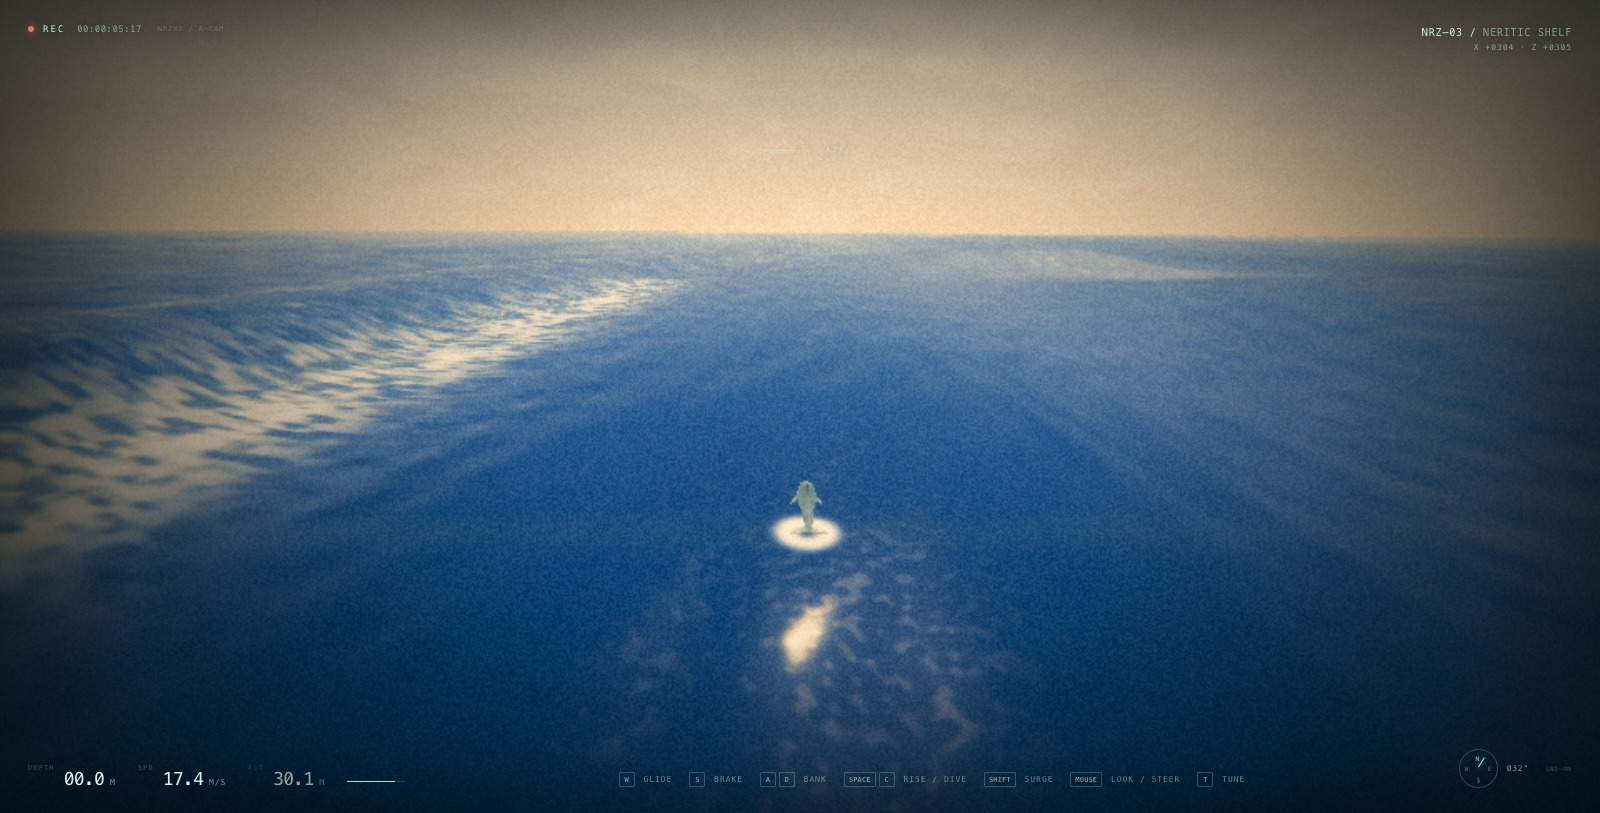
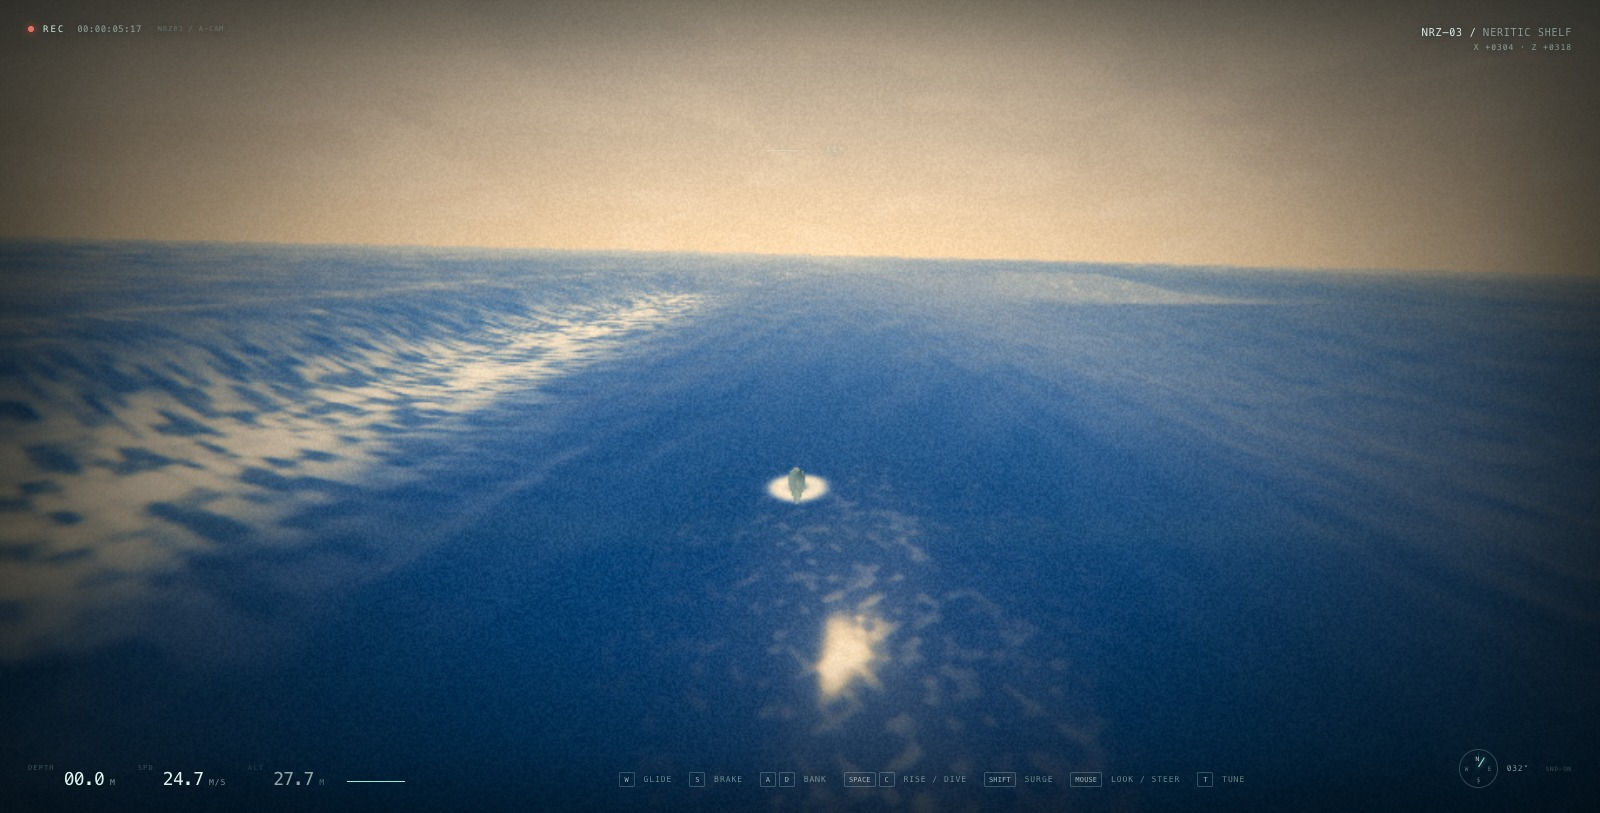
Add loose surf lock and face-foam detailing

diff --git a/src/dolphin.js b/src/dolphin.js
@@ -278,6 +278,11 @@ export class Dolphin {
     this.verticalInput = 0;
     this.pitchInputTimer = 0;
     this.speed = 0;
+    this.surfing = false;
+    this.surfTime = 0;
+    this.surfNormal = new THREE.Vector3();
+    this.surfForward = new THREE.Vector3();
+    this.surfAhead = {};
     this.prevCenterAbove = false;
     this.airborne = false;
     this.wasAbove = false;
@@ -309,6 +314,7 @@ export class Dolphin {
       speed: 0,
       heading: 0,
       waveHeight: 0,
+      surfing: false,
       hydro: null,
     };
   }
@@ -729,6 +735,51 @@ export class Dolphin {
     this.hydro = hydro;
     this.hullMs = hullMs;
 
+    // --- Loose surf lock -------------------------------------------------
+    // Near a breaking crest, at speed, keep the animal planing on the face
+    // instead of letting the hull sink straight through. This is a soft
+    // spring plus a small face-tangent drive, not a scripted animation.
+    const aheadX = this.position.x + this.forward.x * 4;
+    const aheadZ = this.position.z + this.forward.z * 4;
+    const ahead = ocean.water.sampleSurface(aheadX, aheadZ, this.surfAhead);
+    const aheadSlope = Math.hypot(ahead.slopeX, ahead.slopeZ);
+    const faceAhead = aheadSlope > 0.14 || ahead.breakMask > 0.15;
+    const crestNear = water.height > 1.5 || ahead.height > 1.5;
+    const speedEnough = this.surfing ? this.speed > 4.0 : this.speed > 5.5;
+    const surfable =
+      (water.breakMask > 0.15 || faceAhead || crestNear) &&
+      water.depth > 6 &&
+      this.verticalInput === 0 &&
+      speedEnough &&
+      this.position.y > surfaceHeight - 2.2 &&
+      this.position.y < surfaceHeight + 2.5;
+    if (surfable) {
+      if (!this.surfing) this.surfTime = 0;
+      this.surfing = true;
+      this.surfTime += dt;
+      const targetY = surfaceHeight - 0.2;
+      const err = targetY - this.position.y;
+      this.velocity.y += clamp(err * 12 - this.velocity.y * 4.5, -12, 12) * dt;
+      if (this.position.y < surfaceHeight - 0.5) {
+        this.position.y = surfaceHeight - 0.5;
+        if (this.velocity.y < 0) this.velocity.y *= 0.2;
+      }
+      // Face tangent drive: keep enough speed to carve, directed by the
+      // player's current heading projected onto the local surface.
+      this.surfNormal.set(-water.slopeX, 1, -water.slopeZ).normalize();
+      const fdn = this.forward.dot(this.surfNormal);
+      this.surfForward.copy(this.forward).addScaledVector(this.surfNormal, -fdn);
+      const flen = this.surfForward.length();
+      if (flen > 1e-3) {
+        this.surfForward.multiplyScalar(1 / flen);
+        const targetSpeed = water.phaseSpeed * 0.72;
+        const drive = clamp(targetSpeed - this.speed, 0, 7) * 1.8;
+        this.velocity.addScaledVector(this.surfForward, drive * dt);
+      }
+    } else {
+      this.surfing = false;
+    }
+
     // Dry-hull flight: keep the snout-led ballistic glide and the small
     // speed-dependent body lift, but gravity has already been integrated by
     // the hull. Only add the aerodynamic terms while the hull is essentially
@@ -1140,6 +1191,7 @@ export class Dolphin {
     this.telemetry.depth = Math.max(0, surfaceNow - this.position.y);
     this.telemetry.altitude = Math.max(0, this.position.y - floorNow);
     this.telemetry.speed = this.speed;
+    this.telemetry.surfing = this.surfing;
     this.telemetry.waveHeight = surfaceNow;
     // The compass follows the snout target so the readout leads with the view
     // instead of lagging behind the physical body.

diff --git a/src/ocean.js b/src/ocean.js
@@ -638,13 +638,26 @@ export class Ocean {
           float bodyRing = exp(-pow((bodyDist - uBodyRadius) / 0.3, 2.0));
           float bodyFoam = bodyRing * uBodyActive * clamp(uBodySpeed / 7.0, 0.2, 1.1);
           foam = max(foam, bodyFoam * 0.9);
+          // Foam running down the upper face. The 2D world-space noise is
+          // deliberately stretched along the crest and keyed to wave height,
+          // so it reads as streaks on the face rather than a flat wall.
+          float faceStreak = vnoise(
+            vec2(perpA * 0.18 + uTime * 0.035, vWaveHeight * 0.1 - uTime * 0.06)
+          );
+          float faceFoam =
+            broken *
+            smoothstep(0.18, 0.65, crest) *
+            smoothstep(0.58, 0.84, faceStreak) *
+            0.42;
+          foam = max(foam, faceFoam * (0.55 + 0.6 * fineFoam));
           foam = clamp(foam, 0.0, 1.0);
 
           // Color-only tube cue: a dark cavity under the plunging lip. The
           // heightfield cannot overhang, so this is shading, not geometry.
+          float tubePlunge = smoothstep(0.2, 1.4, vXi);
           float tubeMask =
             broken *
-            plunge *
+            tubePlunge *
             smoothstep(0.52, 0.9, vPeakCrest) *
             smoothstep(0.5, 0.85, crest) *
             (1.0 - smoothstep(0.94, 1.0, crest));
@@ -659,7 +672,7 @@ export class Ocean {
           vec3 shallow = uTopColor * 0.42 + vec3(0.0, 0.065, 0.085);
           vec3 body = mix(shallow, uDeepColor, shallowMix);
           body *= 0.82 + 0.24 * crest;
-          body = mix(body, vec3(0.55, 0.72, 0.66), aeration * 0.42);
+          body = mix(body, vec3(0.38, 0.62, 0.66), aeration * 0.3);
 
           // Wave-face legibility: faces tilted toward the sun collect more
           // direct light, faces tilted away sit in their own shadow. This is
@@ -677,7 +690,7 @@ export class Ocean {
           body += uTopColor * (0.02 + crest * 0.08) * 0.35;
 
           vec3 above = mix(body, sky, clamp(0.04 + fres * 0.82, 0.0, 0.94));
-          above = mix(above, vec3(0.004, 0.03, 0.05), tubeMask * 0.35);
+          above = mix(above, vec3(0.004, 0.03, 0.05), tubeMask * 0.45);
 
           float sunAlign = max(dot(refl, uSunDir), 0.0);
           float specPower = mix(1200.0, 70.0, smoothstep(80.0, 1800.0, vDistance));
@@ -689,7 +702,7 @@ export class Ocean {
           above += uSunColor * glint;
 
           vec3 foamColor = mix(vec3(0.6, 0.72, 0.7), vec3(0.96, 0.99, 0.96), smoothstep(0.1, 0.8, foamNoise + lace * 0.25));
-          above = mix(above, foamColor, foam * 0.88 * (1.0 - tubeMask * 0.45));
+          above = mix(above, foamColor, foam * 0.88 * (1.0 - tubeMask * 0.6));
 
           // ---- below the surface ----------------------------------------
           // Snell's window: refracted sky within the critical angle

diff --git a/src/water/debug.js b/src/water/debug.js
@@ -155,6 +155,7 @@ export class WaterDebug {
       `α ${full.aeration.toFixed(2)} · brk ${(full.breakMask || 0).toFixed(2)} · GPU Δ ${gpuText}` +
       `<br><b>SURF</b> dolphin ${speed.toFixed(1)} m/s · phase ${phase.toFixed(1)} m/s · ` +
       `${ratio.toFixed(2)}×${ratio > 0.92 && ratio < 1.15 ? " — on the face" : ""}` +
+      `${this.dolphin.surfing ? " · locked" : ""}` +
       hydroLine;
   }
 }

diff --git a/README.md b/README.md
@@ -59,8 +59,9 @@ The full debug surface is available as `window.OCEAN` (ocean, seabed, dolphin, c
 - **Procedural skeletal spine** — the model is a GPU-skinned 9-bone chain. The snout is anchored to the mouse target and the camera orbits from that same look frame, so the view responds immediately while each following segment keeps its own direction, damps toward the segment ahead and is clamped to an anatomical joint cone (`headBendLimit` at the neck, `bodyBendLimit` down the spine). Fixed segment lengths and a torso-to-fluke swimming wave give the body a semi-rigid, fluid trail. The wave's frequency and amplitude follow actual swim speed and acceleration, so a burst of acceleration produces a stronger, faster stroke; the fluke adds a lagging pitch that tracks the same effort.
 - **Snout-led camera** — the chase view orbits from the same yaw/pitch target that drives the snout, with light smoothing rather than physics-body lag. The body, velocity and spine still trail behind, but the view, compass and aim lead with the animal's head.
 - **Waves** — a seeded, two-train directional spectrum: a narrow JONSWAP swell (96 components, default **20 m Hs / 280 m peak**, long crests and generous sets) plus a broader wind sea (32 components, offset direction). Both are explicit Gerstner sums with one shared deterministic clock. The exact component arrays are uploaded to the vertex shader and evaluated by `src/water/field.js` on the CPU, so `OCEAN.water.sampleHeight()` / `sampleWater()` and the rendered GPU patch agree to **mean 0.01 cm / max 0.04 cm** in the parity probe (a shader-side horizontal-displacement bug was found and fixed in M2). The surface is a camera-following radial clipmap out to 7 km; fragment shading adds three non-commensurate procedural ripple cascades (53 m, 17 m, 5.7 m), distance normal filtering, Schlick Fresnel with the existing sky palette, sun glitter, depth absorption from the bathymetry map, crest transmission and whitecaps derived from local slope, crest height and Jacobian compression. Seen from below, the underside splits into a critical-angle Snell window and total internal reflection with a turquoise rim; the full Snell/caustic pass is M5 work.
-- **Depth response, shoaling and breaking (M3; big-wave arena)** — a shared 256² bathymetry field (baked from the same `seabedHeight()` used by the sand, reef and floor collision) drives finite-depth dispersion (`k/k0 = 1/sqrt(tanh(k0 h))`), Green's-law shoaling (`H ∝ h^-1/4`), local phase speed and a refraction-like phase gradient through the local wavenumber. The default arena is a **long straight reef wall at (450, 300)**, aligned across the swell: a ~38 m basin on the seaward side shoals uniformly onto an ~18 m crest, with a controlled deep floor so the big-wave troughs cannot expose sand. The 20 m Hs, 280 m swell breaks into **20–30 m faces along one continuous wall** with generous set spacing. Breaking is triggered by `Hs_local / h` (default ratio **0.85**, softness ±0.08), with an Iribarren classification from the local bed slope (spilling <0.5, plunging 0.5–3.3, surging >3.3). The heightfield cannot overhang, so the plunging lip is a forward-shifted crest bump, a dark tube band and a foam tongue; there is no amplitude-focus multiplier and no vertex fold. The velocity field gets a crest-gated breaker jet, and aeration is gated by the crest so the animal is not pulled down in the trough. The deterministic finite-depth spectral model keeps CPU and GPU on exactly the same field, has no window seams or readback latency, and runs at 60 fps; the trade-off is that it is not a nonlinear solver and is documented as an approximation.
+- **Depth response, shoaling and breaking (M3; big-wave arena)** — a shared 256² bathymetry field (baked from the same `seabedHeight()` used by the sand, reef and floor collision) drives finite-depth dispersion (`k/k0 = 1/sqrt(tanh(k0 h))`), Green's-law shoaling (`H ∝ h^-1/4`), local phase speed and a refraction-like phase gradient through the local wavenumber. The default arena is a **long straight reef wall at (450, 300)**, aligned across the swell: a ~38 m basin on the seaward side shoals uniformly onto an ~18 m crest, with a controlled deep floor so the big-wave troughs cannot expose sand. The 20 m Hs, 280 m swell breaks into **20–30 m faces along one continuous wall** with generous set spacing. Breaking is triggered by `Hs_local / h` (default ratio **0.85**, softness ±0.08), with an Iribarren classification from the local bed slope (spilling <0.5, plunging 0.5–3.3, surging >3.3). The heightfield cannot overhang, so the plunging lip is a forward-shifted crest bump, a dark tube band and a foam tongue; there is no amplitude-focus multiplier and no vertex fold. The velocity field gets a crest-gated breaker jet, and aeration is gated by the crest so the animal is not pulled down in the trough. Foam streaks run down the upper face, and a dark band under the lip reads as the tube opening. The deterministic finite-depth spectral model keeps CPU and GPU on exactly the same field, has no window seams or readback latency, and runs at 60 fps; the trade-off is that it is not a nonlinear solver and is documented as an approximation.
 - **Hull hydrodynamics / emergent surfing (M2)** — a 170-panel surface of revolution (15 stations × 10 radial panels + end caps) is matched to a displaced volume of **0.58 m³**, giving a **595 kg** animal at neutral density. Forces are integrated at 120 Hz (two substeps) from hydrostatic pressure, wave dynamic pressure (Froude–Krylov), quadratic normal and skin-friction drag relative to the local water velocity, an extra slam coefficient while panels first immerse, and pectoral/fluke lift. Effective mass is anisotropic (added mass: 0.1 forward / 1.0 lateral / 1.0 vertical). Lung buoyancy is positive near the surface, decays with depth and fades with speed, so a passive animal floats and bobs while a cruising animal is neutral at 5–6 m depth. The wave kinematics are refreshed once per frame and reused for the two force substeps to keep the CPU under budget. On a 19° deep-water face at 9.5 m/s the wave field supplied **2.77 m/s²** (M2 measurement); with depth response on a 19° shoaling face it supplies **1.29 m/s²**, about **40%** of the 3.23 m/s² cruise thrust, and a matched-wet flat-water comparison required **4.46 m/s²**.
+- **Loose surf lock (post-M8)** — when the dolphin reaches the top of a breaking swell at speed, a soft spring keeps the body planing on the local surface and a small face-tangent drive keeps enough speed to carve down or across. It is not a scripted animation: release it with Space/C, by slowing below ~4 m/s, or by leaving the face. The debug **SURF** line reports **locked** while it is active.
 - **Dolphin→water effects (M4)** — a separate foam layer (1000 CPU-advected point sprites) adds a speed-scaled wake trail, bow wave, tail boil and tail-slap spray while the body is within ~2 m of the surface (strong at 0.3 m, invisible by 2 m). The GPU contact heightfield receives bow/tail splats, so the surface parts around the moving body. Exit events spawn a body-shaped spray sheet and ballistic droplets; re-entry spawns a ring crown, cavity/ring impulse, bubble plume and persistent foam, with event debouncing so surface skimming does not saturate the effect budget. Every new particle samples the local wave velocity at spawn and carries it, then blends with the ambient current. A tail slap triggers when the fluke actually crosses the surface downward, not on a fixed animation phase.
 - **Waterline and underwater rendering (M5)** — the surface chooses above/below shading per fragment, but blends in the global camera state when clearly above or below so distant tilted wave planes cannot fake an underside. Near the waterline it uses the local vertical side, enabling true half-in/half-out frames; the camera is allowed to sit in a narrow surface band and the surface gets a thin meniscus line. A meniscus/foam collar hugs the dolphin using a body-centred ring uniform. Underwater, the surface computes a physical Snell window: refracted sky inside the 48.6° critical angle, total internal reflection outside, a sharp turquoise rim, wave-shape shading, sun glitter and caustic veins. The camera-following underwater view keeps the scene shafts/caustics and particulates; the volumetric pass was strengthened for M5.
 - **Advected surf foam (post-M5)** — a 128², 400 m foam/aeration scalar over the surf ridge is advanced at 15 Hz with semi-Lagrangian advection by the peak orbital velocity, an onshore drift, cross-wave swirl and a small diffusion pass, then exponential decay. It is sourced only across the break-onset band (`breakMask ≈ 0.5`) where the analytic whitewater is transitioning, so foam persists and drifts onshore after each crest instead of switching off with the spectral phase. The field uploads as an 8-bit `DataTexture` sampled by the ocean vertex shader and is queried bilinearly by `ocean.sampleWater()`/`sampleWaterBatch()`, so visible foam contributes up to 0.5 aeration to hull buoyancy and thrust. At render time the field is thresholded through the existing foam/lace noise, so it keeps blue gaps and reads as whitewater rather than a uniform cream sheet. It is visual/physics aeration only: it never moves the surface height, which remains the analytic M3 profile. Toggle **advected foam**, with **foam source** and **foam decay** controls in T. The update averages well under 0.1 ms per rendered frame at 15 Hz.
